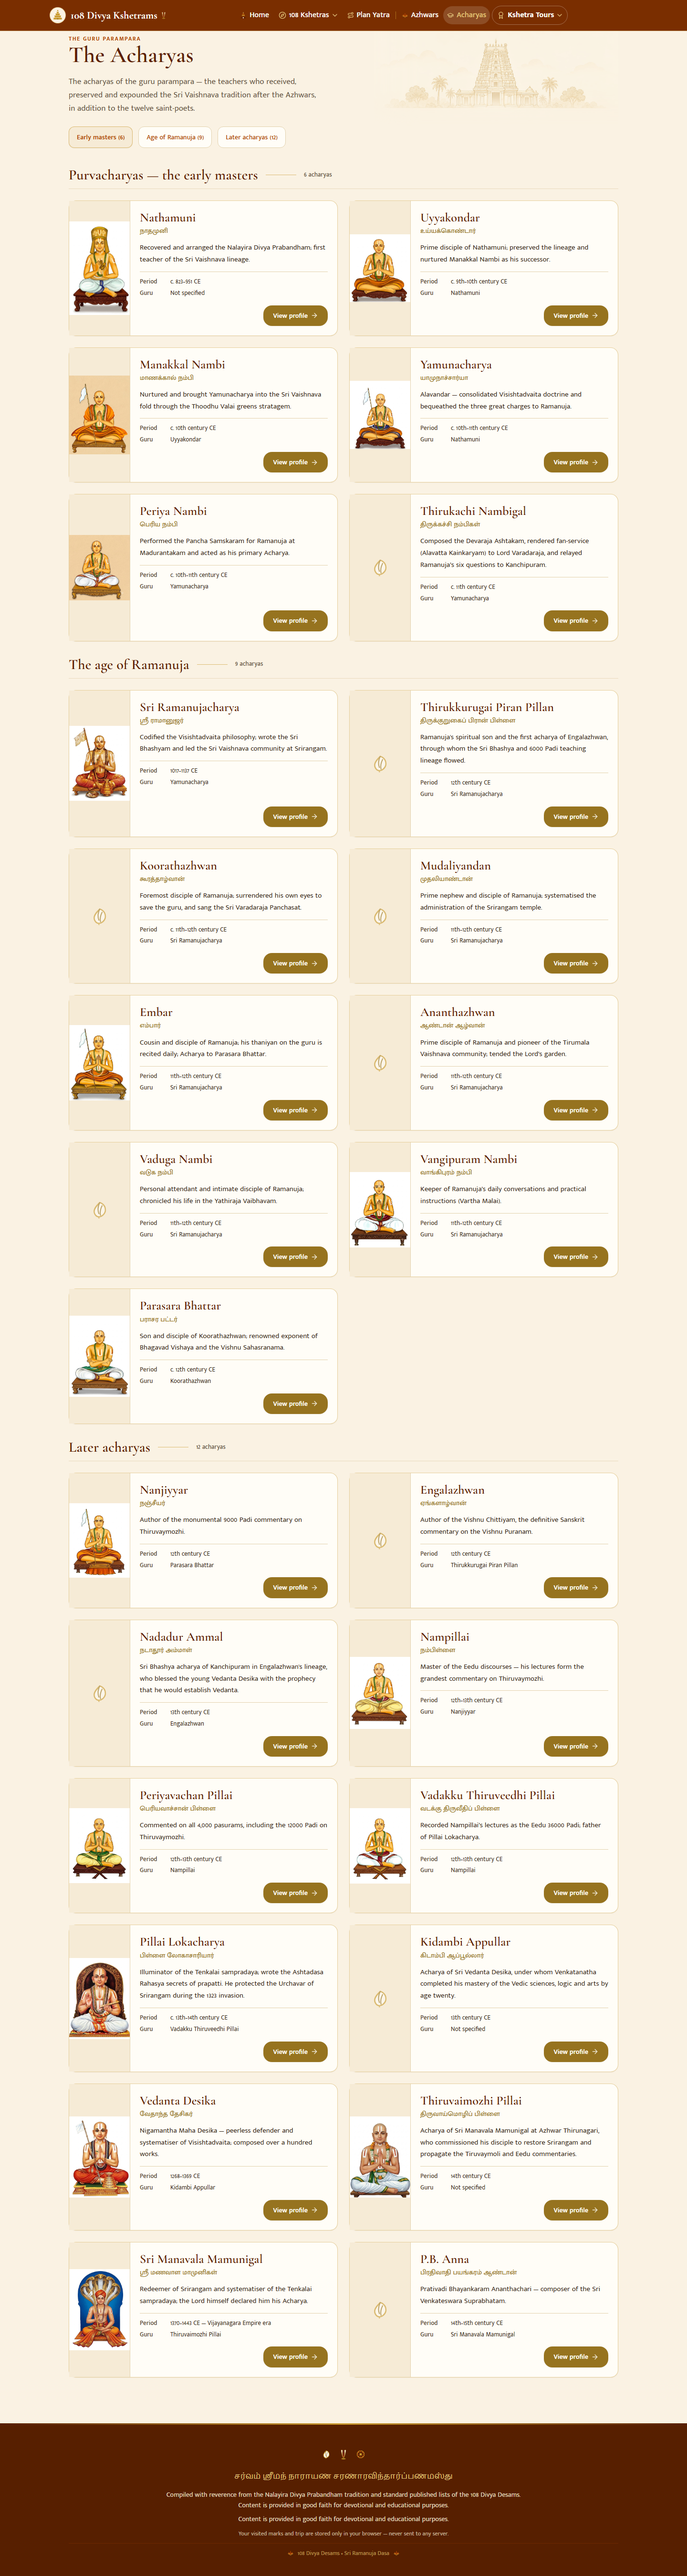
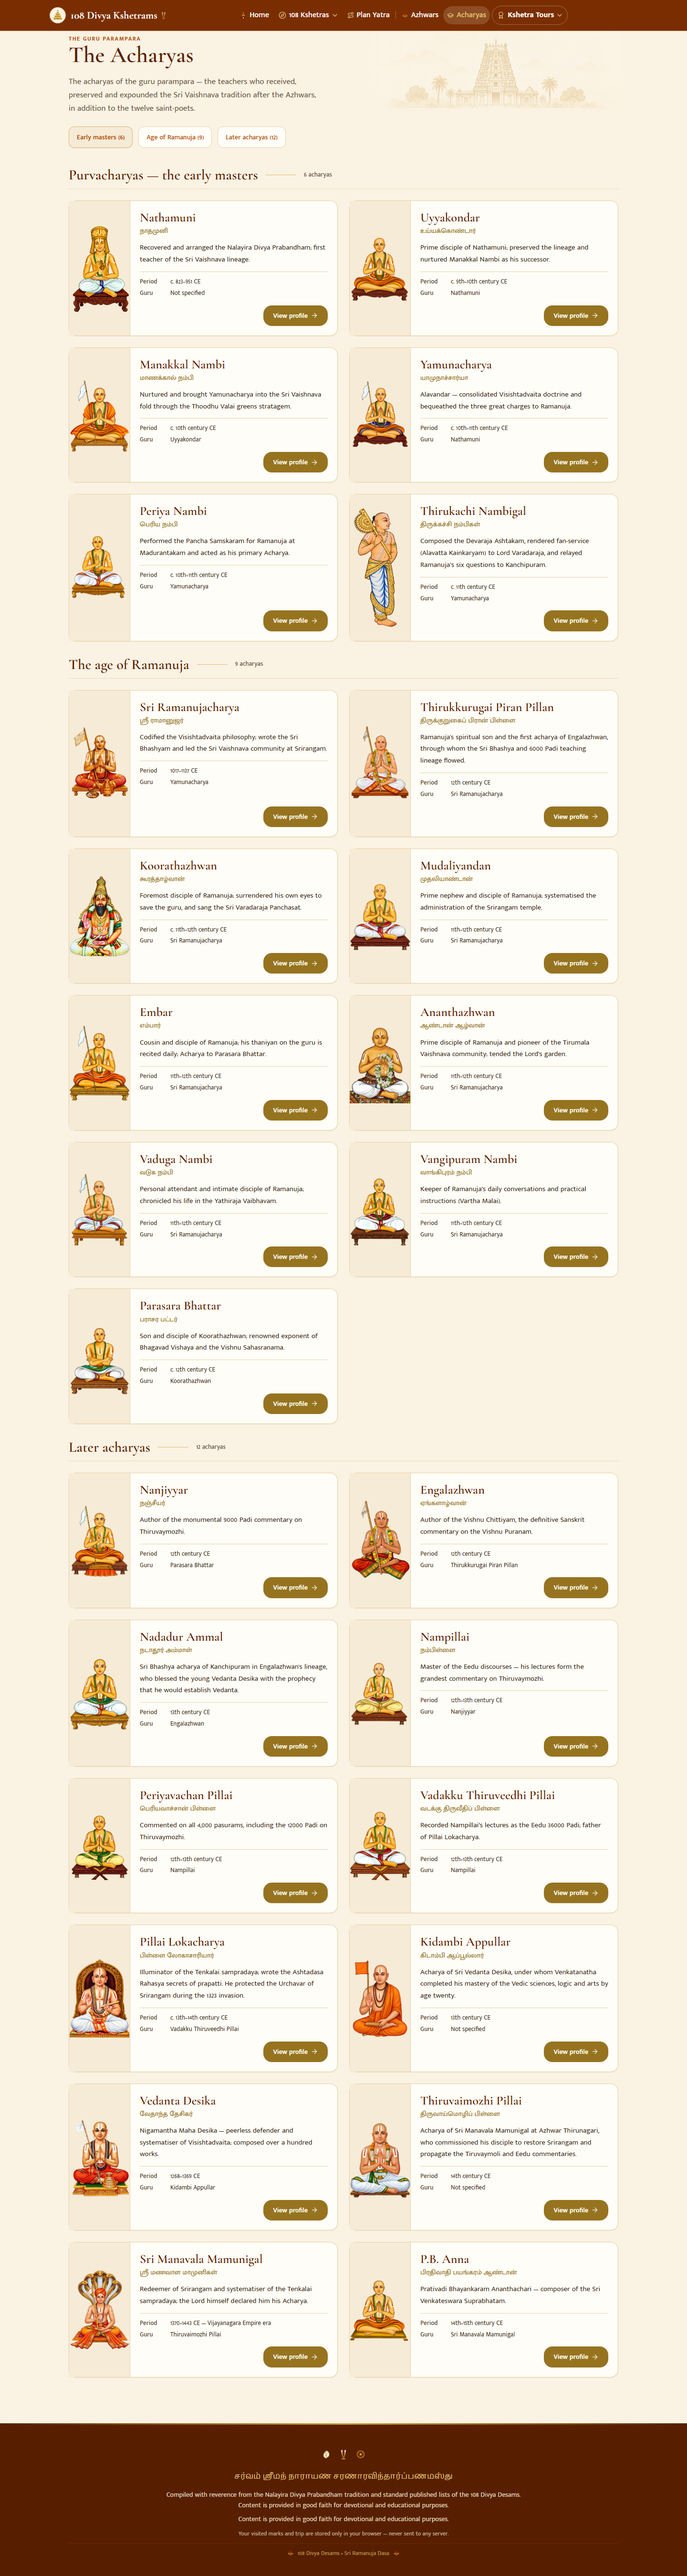
Acharya portraits replaced with transparent masters (round 37 follow-up): PO re-supplied all 27 dataset acharyas as transparent PNGs (1.1-2.5MB) — converted to WebP-with-alpha q85 (159-351KB, all under the 400KB budget; palette-PNG rejected at 408-626KB + banding risk) as photos/saint-<id>.webp, all

diff --git a/docs/05-testing/test-execution-report.md b/docs/05-testing/test-execution-report.md
@@ -3368,3 +3368,33 @@ images after the lazy-load priming pass (the last era's cards sit below
 the fold — an initial "4 broken" report was the lazy-load timing, not
 decode failure; direct URL loads decode fine); 0 wiki portraits remain.
 Gate shot: `docs/03-design/gate-shots/acharya-photos-37/`.
+
+## Version 2.51 — Acharya Portraits Replaced With Transparent Masters (2026-10-22, round 37 follow-up)
+
+**Trigger:** PO re-supplied the acharya portraits as transparent-background
+PNGs (30 files, 1.1-2.5 MB each) — this batch covers **all 27 dataset
+acharyas** (the previous batch's 17 plus the 10 that had been missing).
+
+### Delivered
+
+Transparency cannot survive the JPEG upload spec, so the masters were
+converted to **WebP with alpha** (quality 85 — 159-351 KB each, every file
+under the 400 KB budget; palette-PNG was rejected at 408-626 KB with
+banding risk on painting gradients). All 27 records rewired to
+`photos/saint-<id>.webp` in `acharyas.json` + sync fixture; the 17
+superseded `saint-*.jpg` files deleted (`saint-poigai.jpg` is an azhwar
+and stays). Every /acharyas card now renders a curated portrait — no
+shanka portrait fallbacks and no Wikipedia portraits remain on the
+directory; the Home featured strip follows automatically.
+
+**Still unwired (unchanged policy):** 3 files match no dataset acharya —
+Senai Mudaliyar, Nayanaracan Pillai, Alagiya Manavala Perumal Nayanar
+(no wrong-person guessing, no records invented).
+
+### Verification
+
+`sync-content --fixture --check` 0-diff; studio round-trip lossless;
+build clean; unit 259/259; lint 0 err/6 warn. Preview: 27/27 WebP
+portraits render, 0 broken after lazy-load priming, 0 stale JPG
+references. Gate shot updated:
+`docs/03-design/gate-shots/acharya-photos-37/acharyas-directory-1440.png`.
